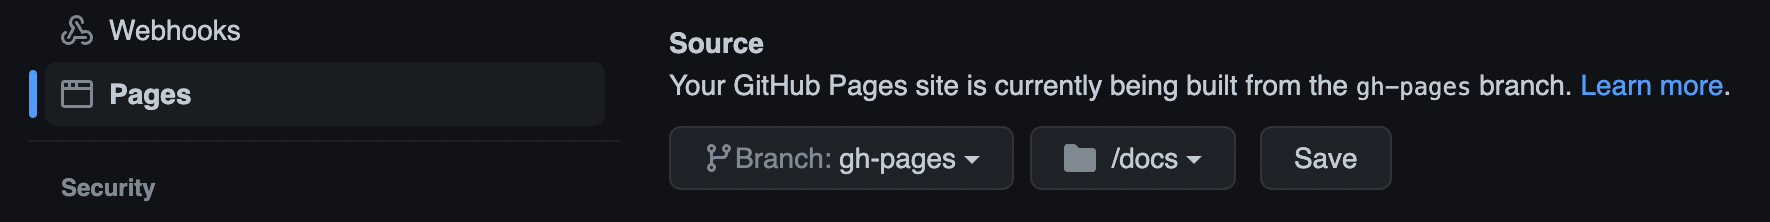
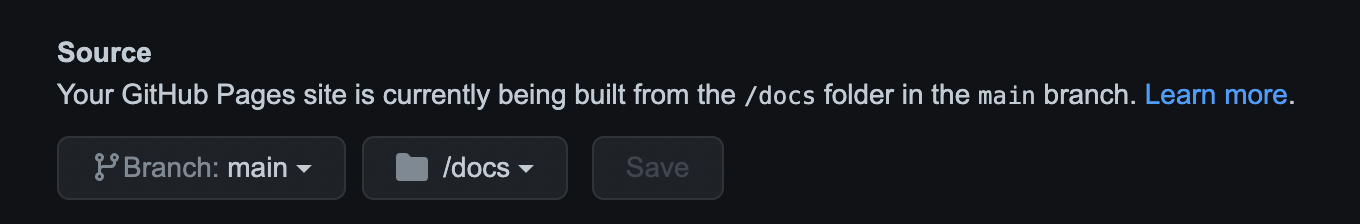
Updated README.md

diff --git a/README.md b/README.md
@@ -11,37 +11,40 @@ A template for creating libraries for iOS, macOS, watchOS, tvOS (and possibly Li
 
 Getting started is as easy as [creating a GitHub project](https://github.com/eaceto/EASwiftLibraryTemplate/generate) using this template, and including **all branches**.
 
-Two branches should be present on your recently created project: **main** and **gh-pages**.
-
 ![Create your project using this template and including all branches](/Template/docs/create-using-template.png "Create your project using this template and including all branches")
 
 ### Setup your GitHub Page
 
-GitHub Page is used to render source code and other automatically generated documentation. In order to let the **docs pipeline** run correctly, your GitHub Page should point to branch **gh-pages** and the folder to **/docs**.
+GitHub Page is used to render source code and other automatically generated documentation. Automatically generated documentation includes:
+
+  * Source Code Documentation
+  * (Swift)Linter Report
+  * Code Coverage Report
+
+This docs are automatically generated when the **CD** workflow runs.
+
+Please, take into consideration that your GitHub Page should point to **main** branch and **/docs** folders.
 
 ![Setting GitHub Pages correctly](/Template/docs/github-page-settings.png "Setting GitHub Pages correctly")
 
 ## Run *one time* Setup Script
+*TBD*
 
 ## Documenting Source Code
 
-Documentation is automatically generated using **Jazzy** or **DocC**, and published to GitHub Page. 
+Documentation is automatically generated using **Jazzy** or **DocC**, and published to GitHub Page. By default GitHub Page **index.md** refers to **Jazzy** documentation, but you can switch it to **DocC** easily. This change can be done in **definitions.json** file, where **docs_generator** accepts **jazzy** or **docc** as valid values.
+
+```json
+{
+    "name": "EASwiftLibraryTemplate",
+    "version": "0.0.3",
+    "homepage": "https://github.com/eaceto/EASwiftLibraryTemplate",
+    "git": "https://github.com/eaceto/EASwiftLibraryTemplate.git",
+    "docs_generator": "jazzy"
+}
+```
 
 In order to know more about Jazzy refer to its [GitHub Repository](https://github.com/realm/jazzy), and if you would like to use DocC please take a look at the [project documentation](https://developer.apple.com/documentation/docc).
-
-Like Jazzy, DocC only exposes symbos with public scope. But, extensions that belongs to symbols outside the target, will not appear in DocC but yes on Jazzy. You choose.
-
-### Example doc using DocC
-
-Below is the documentation of the method **mask(string:with:)** using DoC
-![DocC generated doc](/Template/docs/docc-example.png "DocC generated doc")
-
-### Example doc using Jazzy
-
-Below is the documentation of the method **mask(string:with:)** using Jazzy
-![Jazzy generated doc](/Template/docs/jazzy-example.png "Jazzy generated doc")
-
-By default GitHub Page **index.md** refers to **Jazzy** documentation, but you can switch it to **DocC** easily.
 
 ## Pipeline
 
